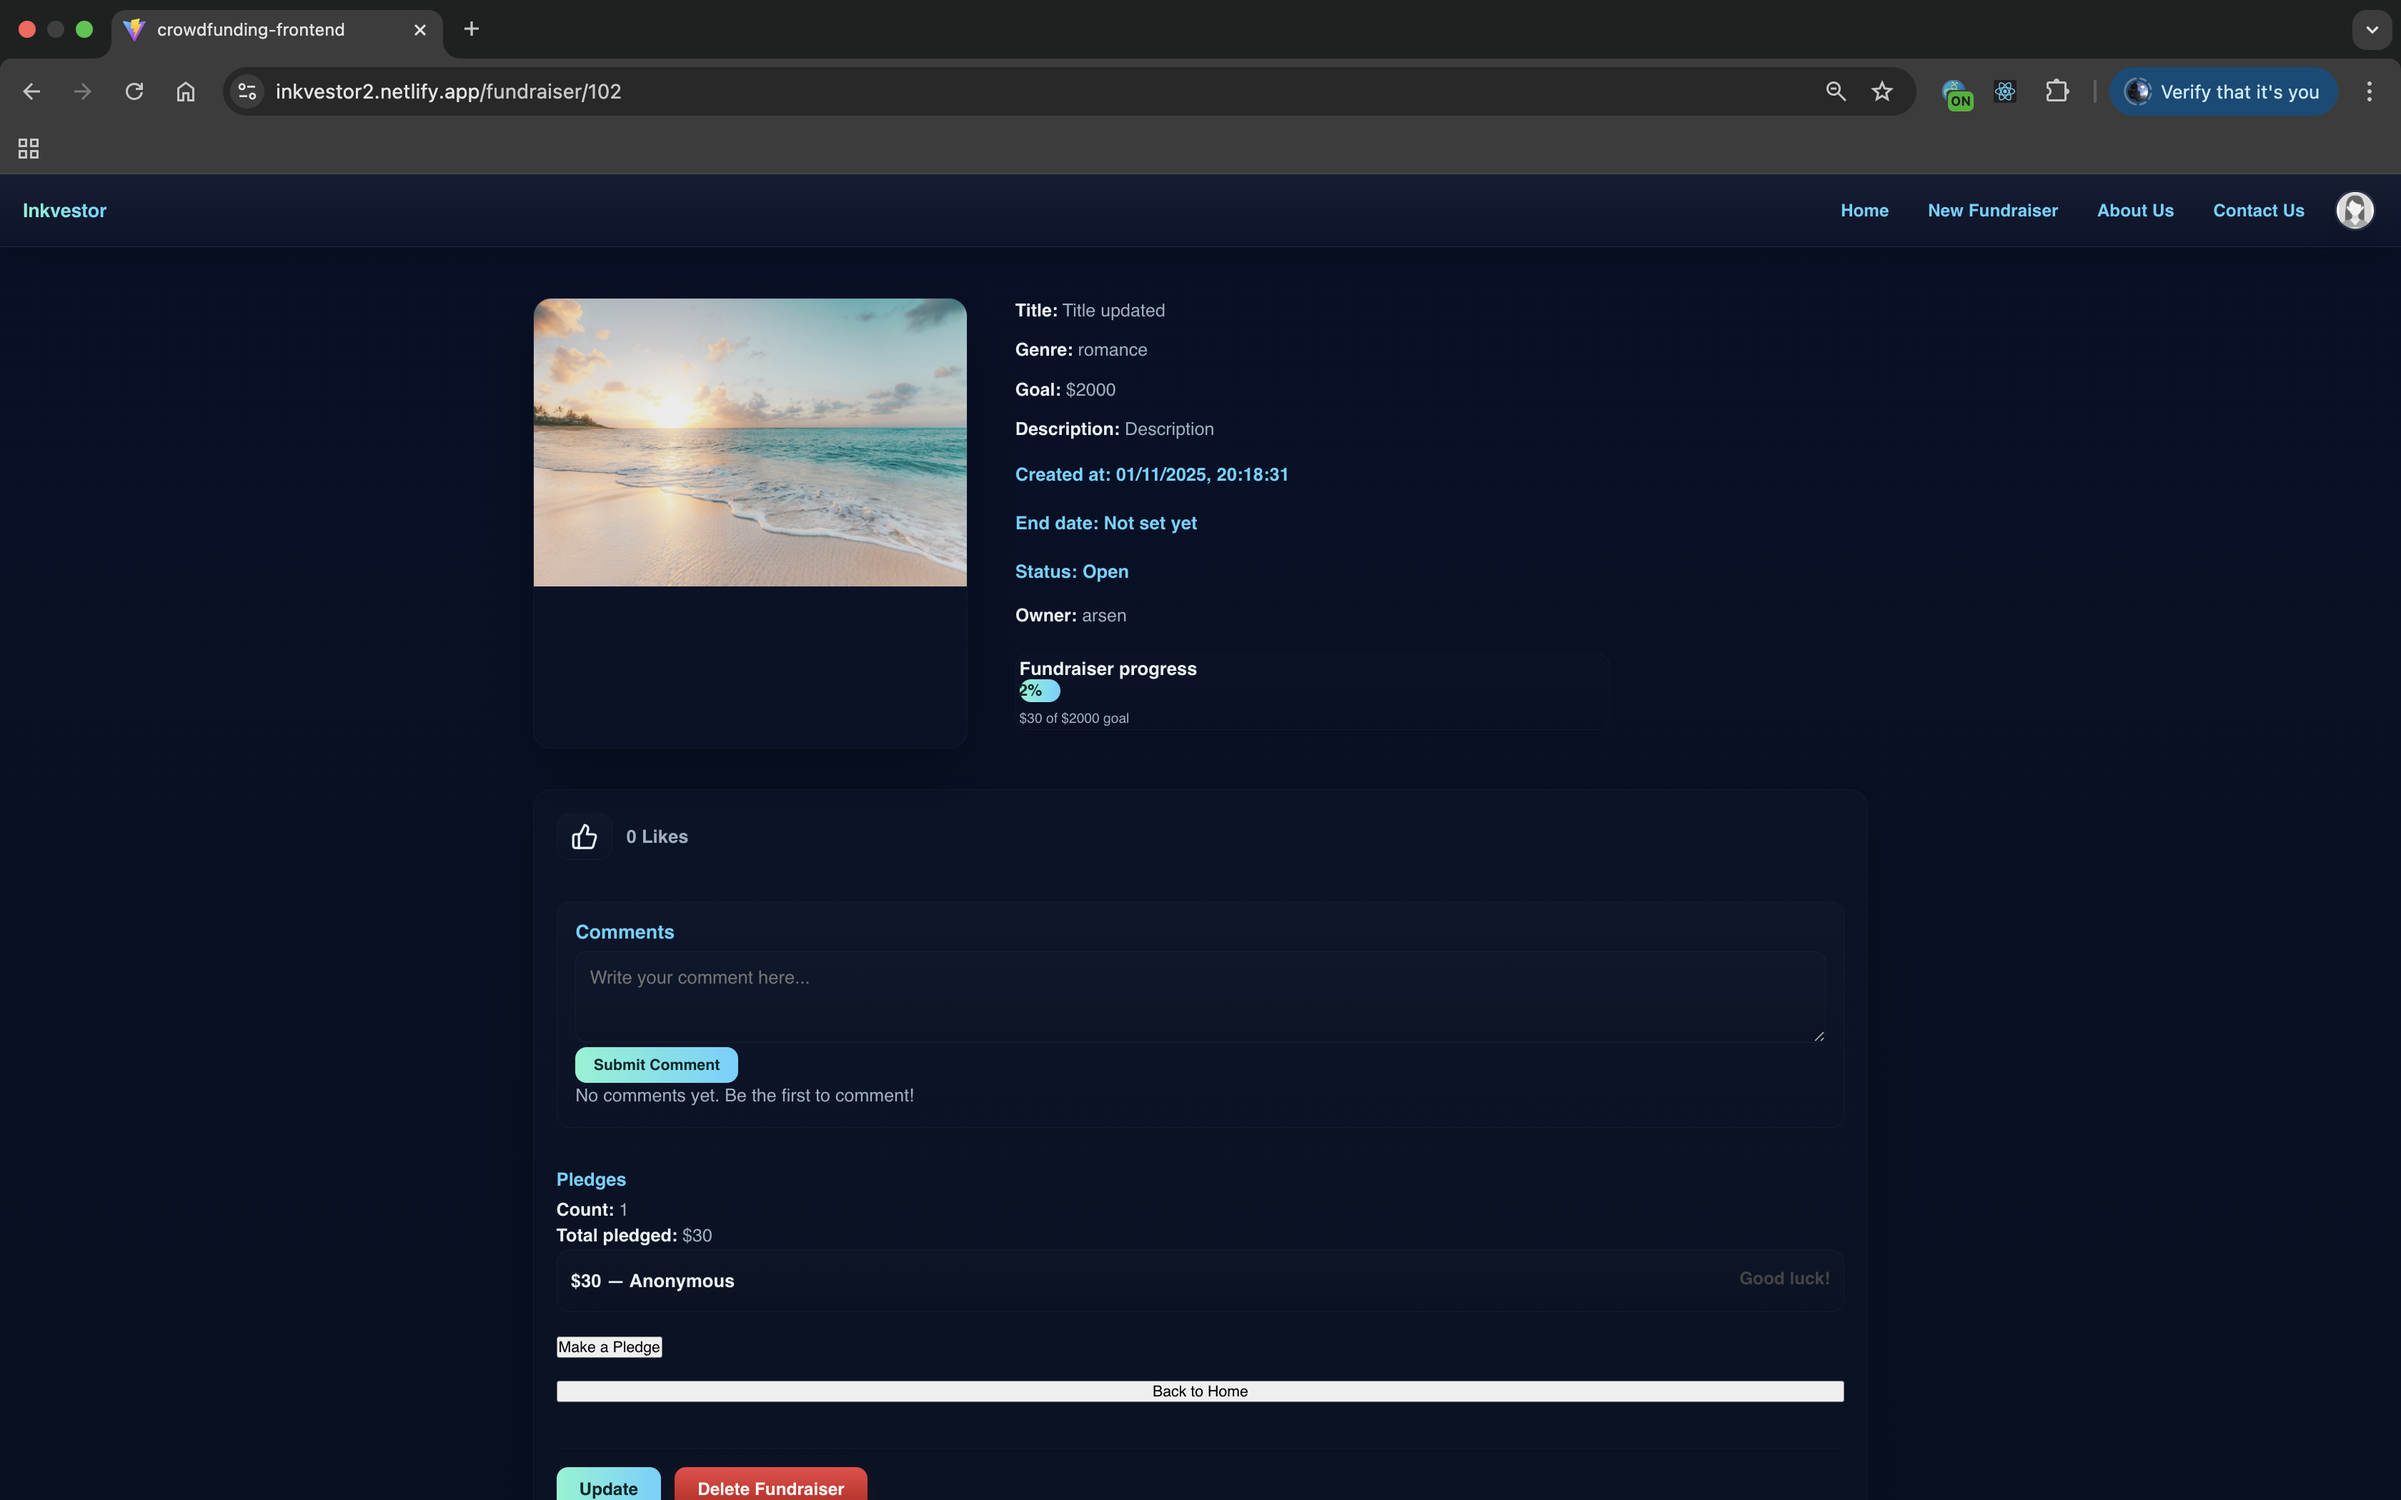
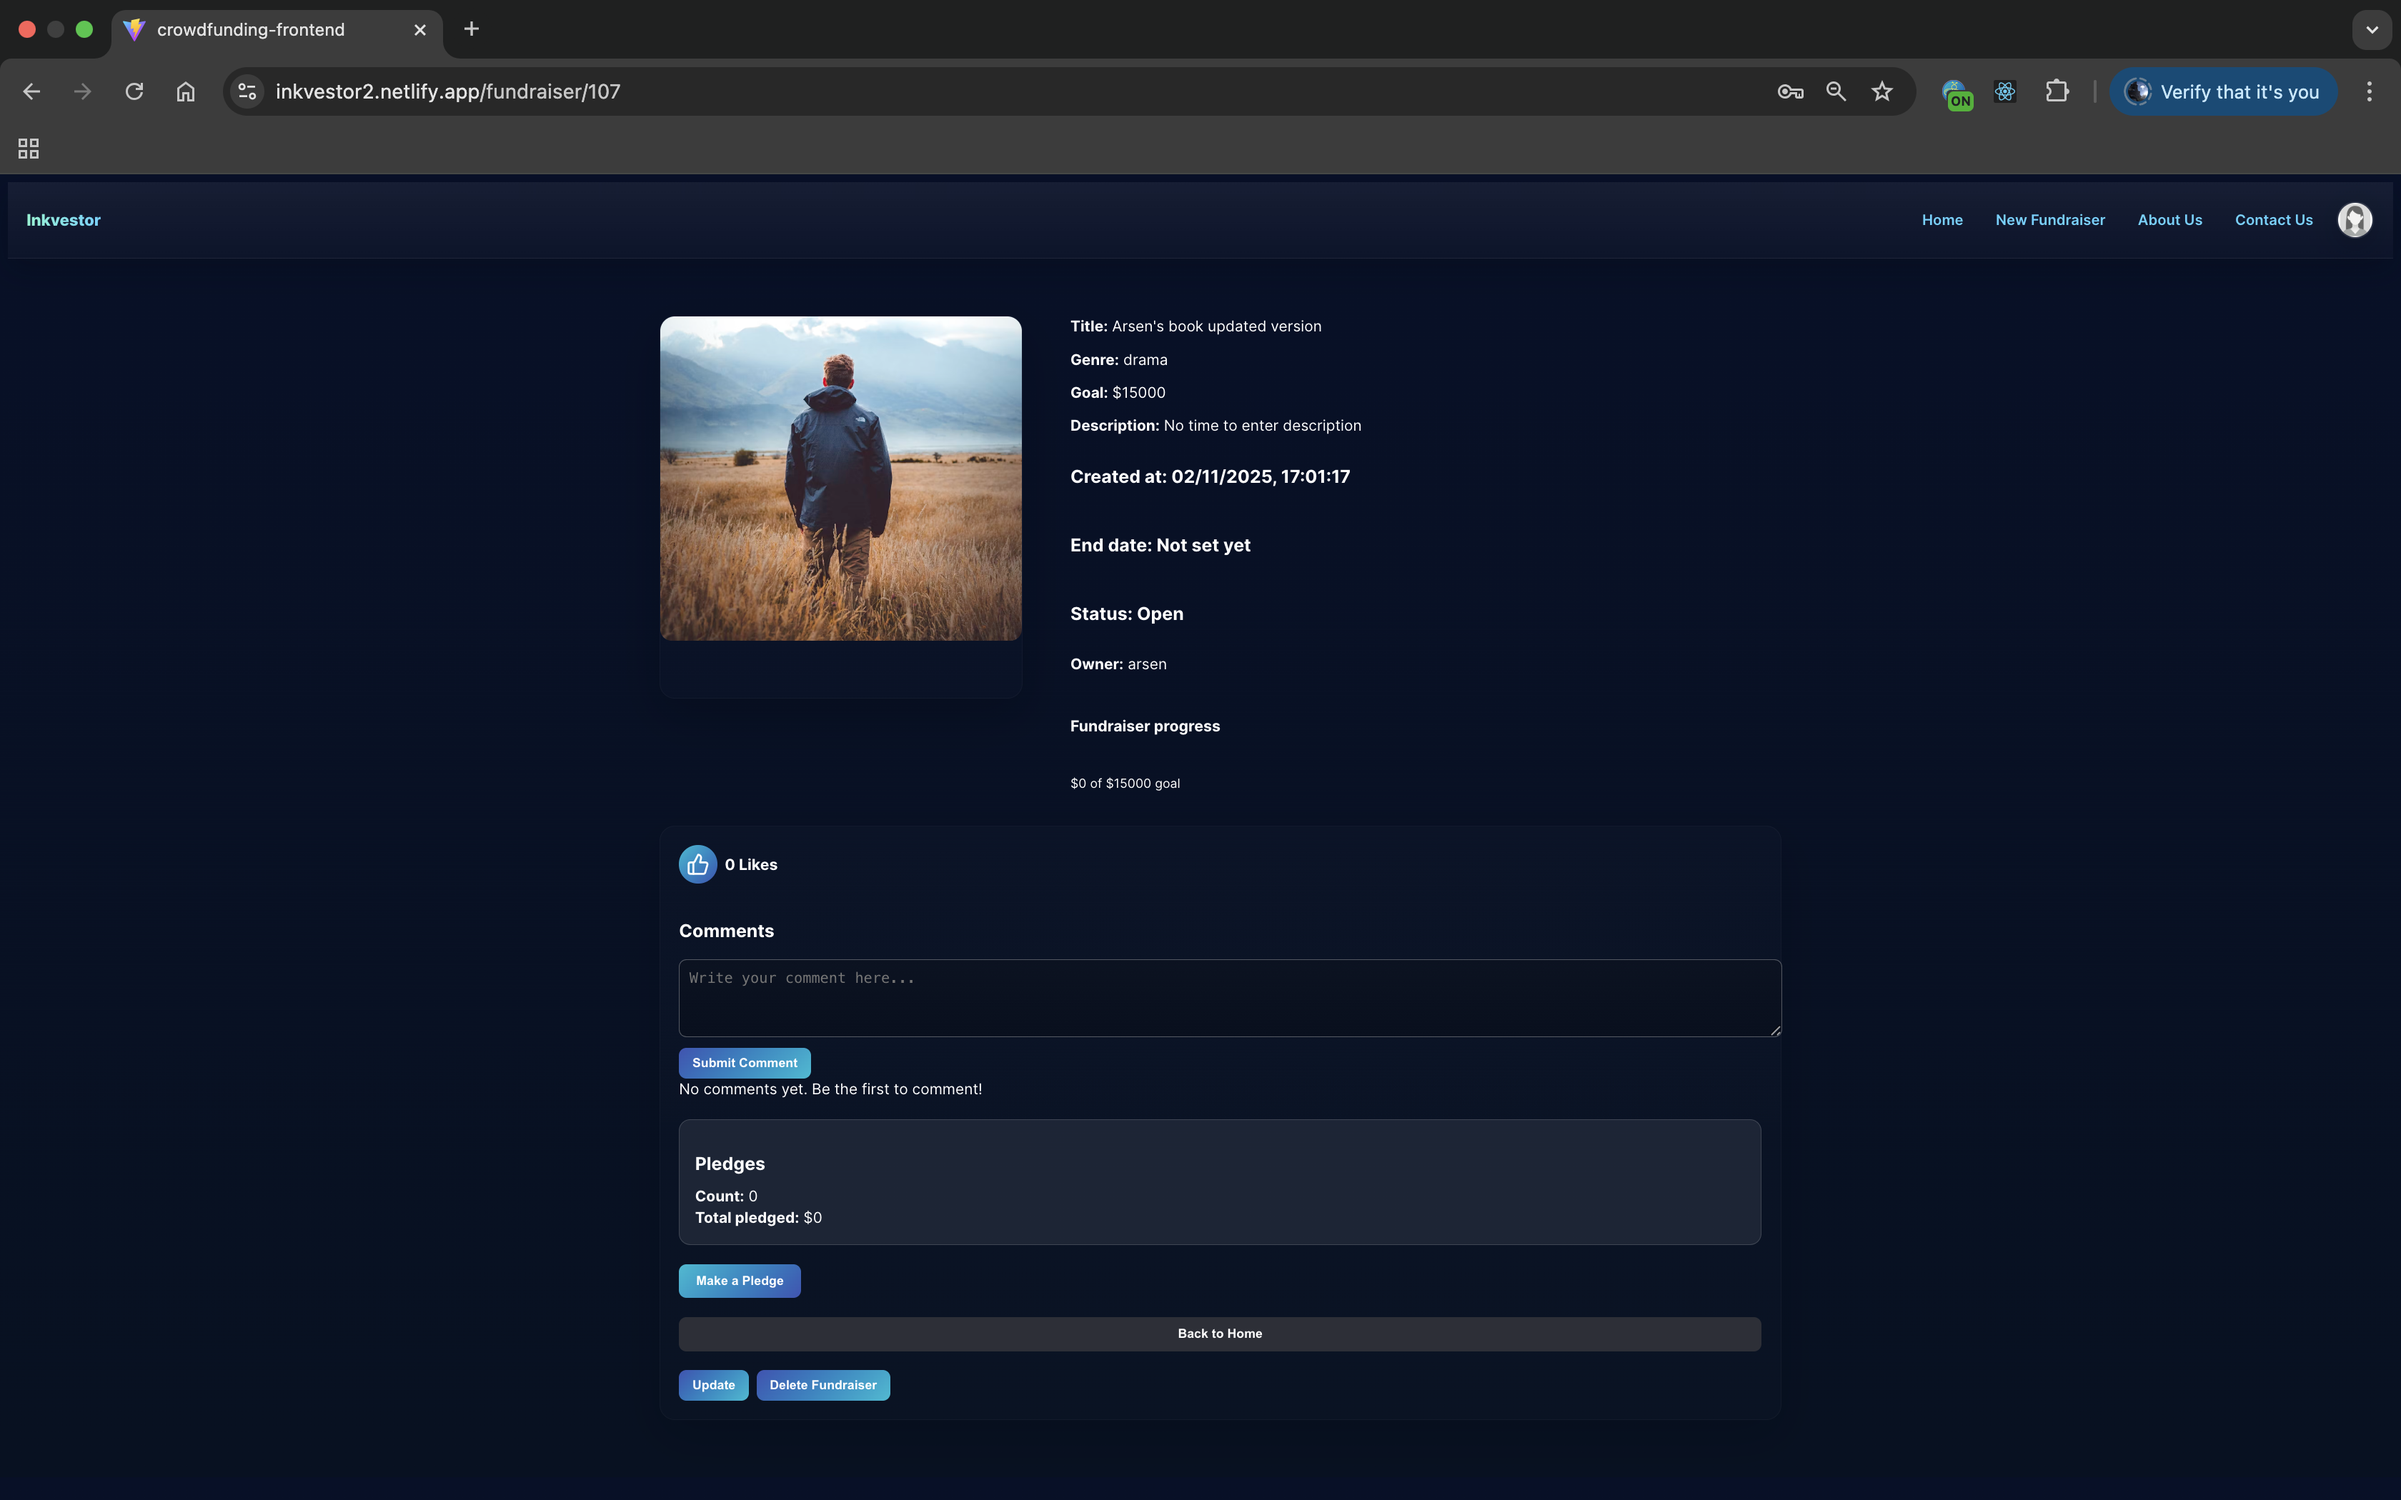
readme file is updated. pledge css is fixed.

diff --git a/src/pages/FundraiserPage.css b/src/pages/FundraiserPage.css
@@ -205,10 +205,14 @@
 
 /* --- Pledges Section --- */
 .pledges-section {
-    background: rgba(255, 255, 255, 0.08); /* lighter than bottom-side */
-    padding: 16px;
+    background: linear-gradient(180deg, rgba(255,255,255,0.012), rgba(255,255,255,0.006));
     border-radius: 12px;
-    border: 1px solid rgba(255,255,255,0.15);
+    border: 1px solid rgba(255,255,255,0.03);
+    box-shadow: 0 18px 50px rgba(2, 8, 20, 0.28);
+    padding: 20px;
+    display: flex;
+    flex-direction: column;
+    gap: 16px;
 }
 .pledges-section h3 {
     color: #ffffff;
@@ -232,12 +236,13 @@
     box-shadow: 0 4px 12px rgba(0,0,0,0.25);
 }
 .pledge-item {
-    padding: 10px 14px;
-    border-radius: 8px;
-    border: 1px solid rgba(255,255,255,0.1);
-    margin-bottom: 8px;
     background: rgba(255,255,255,0.05);
-    color: #ffffff;
+    padding: 12px 14px;
+    border-radius: 10px;
+    border: 1px solid rgba(255,255,255,0.1);
+    display: flex;
+    flex-direction: column;
+    gap: 6px;
 }
 .pledge-main {
     font-weight: 700;
@@ -249,6 +254,64 @@
 }
 .pledge-meta small {
     color: #ffffff;
+}
+
+/* --- Make Pledge Section / Form Wrapper --- */
+.make-pledge-area,
+.pledge-form-wrapper {
+    background: linear-gradient(180deg, rgba(255,255,255,0.012), rgba(255,255,255,0.006));
+    border-radius: 12px;
+    border: 1px solid rgba(255,255,255,0.03);
+    box-shadow: 0 18px 50px rgba(2, 8, 20, 0.28);
+    padding: 20px;
+    display: flex;
+    flex-direction: column;
+    gap: 12px;
+}
+
+/* --- Pledge Form Heading --- */
+.pledge-form-wrapper h3 {
+    margin: 0 0 12px 0;
+    font-weight: 800;
+    color: #ffffff;
+    font-size: 1.25rem;
+}
+
+/* --- Pledge Input Fields --- */
+.pledge-form-wrapper input,
+.pledge-form-wrapper textarea,
+.pledge-form-wrapper select {
+    width: 100%;
+    padding: 10px 12px;
+    border-radius: 8px;
+    border: 1px solid rgba(0,0,0,0.2);
+    background-color: #ffffff; /* white background for inputs/textarea/dropdown */
+    color: #000000;
+    font-size: 0.95rem;
+    outline: none;
+    transition: border-color 0.2s ease, box-shadow 0.2s ease;
+}
+.pledge-form-wrapper input:focus,
+.pledge-form-wrapper textarea:focus,
+.pledge-form-wrapper select:focus {
+    border-color: #00bcd4;
+    box-shadow: 0 0 8px rgba(0,188,212,0.25);
+}
+
+/* --- Submit / Cancel Buttons --- */
+.pledge-form-wrapper button {
+    background: linear-gradient(135deg, #00bcd4, #3f51b5);
+    color: #ffffff;
+    border: none;
+    padding: 10px 16px;
+    border-radius: 8px;
+    font-weight: 600;
+    cursor: pointer;
+    transition: transform 0.2s ease, box-shadow 0.2s ease;
+}
+.pledge-form-wrapper button:hover {
+    transform: translateY(-2px);
+    box-shadow: 0 6px 18px rgba(0,188,212,0.35);
 }
 
 /* --- Make Pledge Button --- */

diff --git a/README.md b/README.md
@@ -2,7 +2,8 @@
 A minimal crowdfunding frontend built with React that talks to a Django REST Framework API.
 
 
-#### Checklist:
+## Checklist:
+### 1:
 
 - [x] Be separated into two distinct projects: an API built using the Django Rest Framework and a website built using React.
 
@@ -12,16 +13,19 @@ A minimal crowdfunding frontend built with React that talks to a Django REST Fra
         For backend use below link
     [https://inkvestor-40ee966b1650.herokuapp.com]
 
+### 2:
 
 - [x]  Have a cool name, bonus points if it includes a pun and/or missing vowels. See https://namelix.com/ for inspiration. (Bonus Points are meaningless)
 
         see above 
 
+### 3:
 
  - [x] Have a clear target audience.
   
         This platform is for aspiring authors and writers who want to publish their books but lack the funds to do so. It also serves book lovers, supporters, and patrons who are interested in backing creative literary projects and helping new voices reach readers.
 
+### 4:
 
  - [x] Have user accounts. A user should have at least the following attributes:
    - [x] Username
@@ -31,6 +35,7 @@ A minimal crowdfunding frontend built with React that talks to a Django REST Fra
 ![New User Registration Form](src/assets/screenshots/username.png)
 
 
+### 5:
 
  - [x] Ability to create a “fundraiser” to be crowdfunded which will include at least the following attributes:
    - [x] Title
@@ -42,13 +47,13 @@ A minimal crowdfunding frontend built with React that talks to a Django REST Fra
 
 
 When creating a new Fundraiser, you need to be logged in. 
-    ![New Fundriaser Form](src/assets/screenshots/new-fundraiser-form.png)
+![New Fundriaser Form](src/assets/screenshots/new-fundraiser-form.png)
 
 After you created, you will see owner, status, whether it is open or not and when it is created. 
 
-
 ![Fundriaser Detail](src/assets/screenshots/fundraiser-id.png)
 
+### 6:
 
  - [x] Ability to “pledge” to a fundraiser. A pledge should include at least the following attributes:
    - [x] Amount
@@ -59,32 +64,33 @@ After you created, you will see owner, status, whether it is open or not and whe
 
 
 When you are making a pledge it asks amount, you already pick the fundraiser, it asks whether you want to be anonymous or not, and you can comment.
-    ![New Pledge Form](src/assets/screenshots/new-fundraiser-form.png)
+    ![New Pledge Form](src/assets/screenshots/new-pledge-form.png)
 
+### 7:
 
  - [x] Implement suitable update/delete functionality, e.g. should a fundraiser owner be allowed to update its description?
 
-        For delete see below.
+    Logged in user is arsen and fundraiser is created by apple, so update or delete button doesnt show up at all. 
+![delete others fundriaser is not allowered](src/assets/screenshots/delete-fundraiser-others.png)
 
     You can update your own fundraiser. You see update and delete button
 ![update your own fundriaser](src/assets/screenshots/update-fundraiser.png)
 
-    you can type whatever you want to update to
+    you can type whatever you want to update to.You can change title, goal, description, url etc.
+
 ![update your own fundriaser](src/assets/screenshots/update-button.png)
     This is what it looks like after update
 ![update your own fundriaser](src/assets/screenshots/after-update.png)
 
-
-
-
+### 8:
 
  - [x] Implement suitable permissions, e.g. who is allowed to delete a pledge?
 
-![delete your own fundriaser](src/assets/screenshots/delete-fundraiser.png)
+        Pledges cannot be deleted.However, to delete or update fundraiser, only owner can do it. See above for refecences. 
 
-You can change title, goal, description, url etc.
-![delete others fundriaser is not allowered](src/assets/screenshots/delete-fundraiser-others.png)
 
+
+### 9:
 
  - [x] Return the relevant status codes for both successful and unsuccessful requests to the API.
 
@@ -93,18 +99,47 @@ You can change title, goal, description, url etc.
 
 
 
+### 10:
 
  - [x] Handle failed requests gracefully (e.g. you should have a custom 404 page rather than the default error page).
 
+As there is no logged in user, it doesnt allow to create fundriaser. ( screenshot is taken before css update)
 ![invalid-token](src/assets/screenshots/invalid-token.png)
 
+You are not allowed to pledge against your own. 
 ![error](src/assets/screenshots/error.png)
+
+### 11:
+
  - [x] Use Token Authentication, including an endpoint to obtain a token along with the current user's details.
 
-Token will be diaplay in the network.
+        Token will be diaplay in the network.
 
 ![api-token](src/assets/screenshots/api-token.png)
 
  - [x] Implement responsive design.
-    
-        Still in progress
+
+
+
+![responsive](src/assets/screenshots/responsive1.png)
+
+hamburger menu 
+![hamburger](src/assets/screenshots/hamburger.png)
+
+responsive design
+![responsive](src/assets/screenshots/responsive2.png)
+
+
+responsive design
+![responsive](src/assets/screenshots/responsive3.png)
+
+responsive design
+![responsive](src/assets/screenshots/responsive4.png)
+
+#### Extra features 
+
+Sort by and search bar
+![sort and seacrh](src/assets/screenshots/sortby.png)
+
+comment on fundraiser
+![comment on fundraiser](src/assets/screenshots/comment.png)
